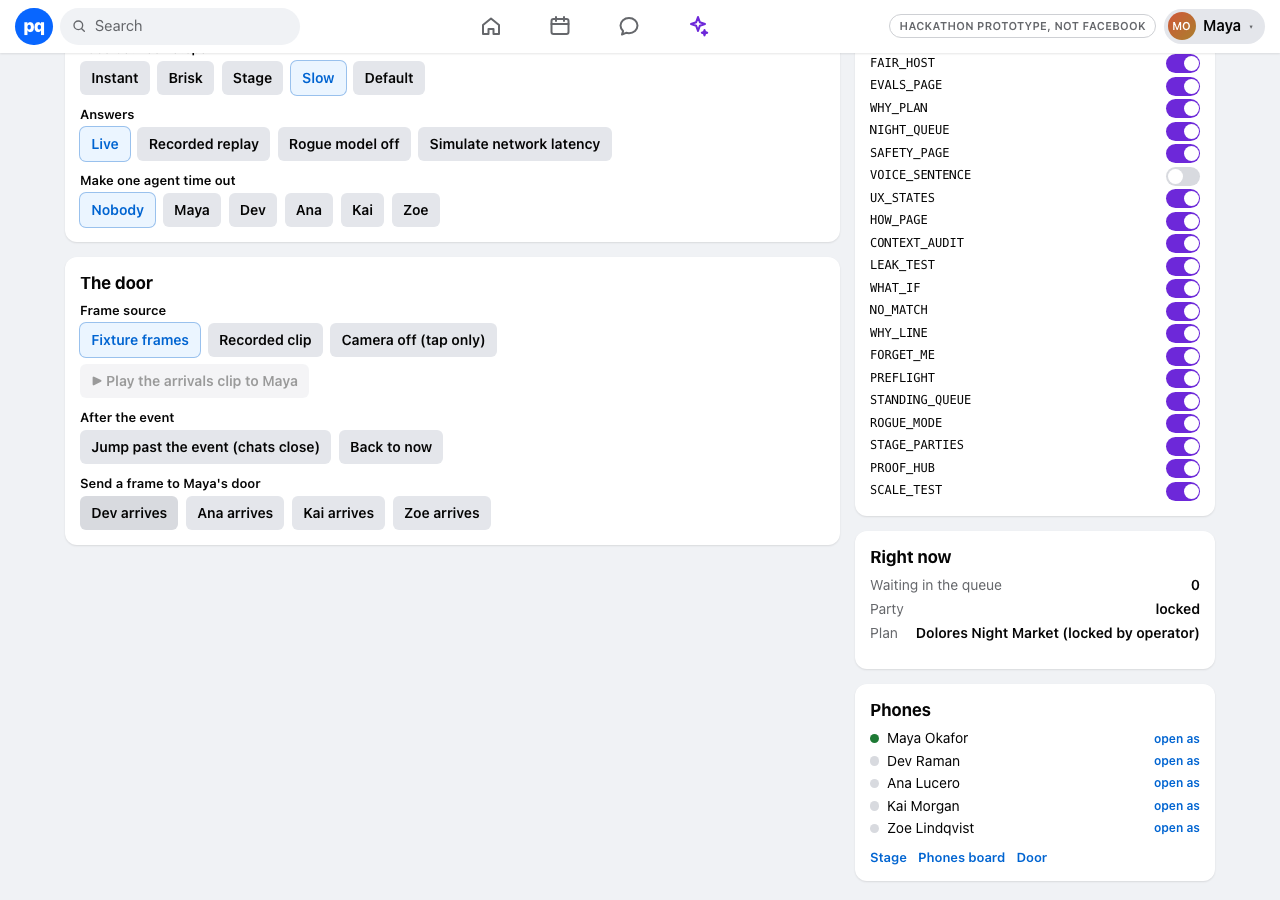
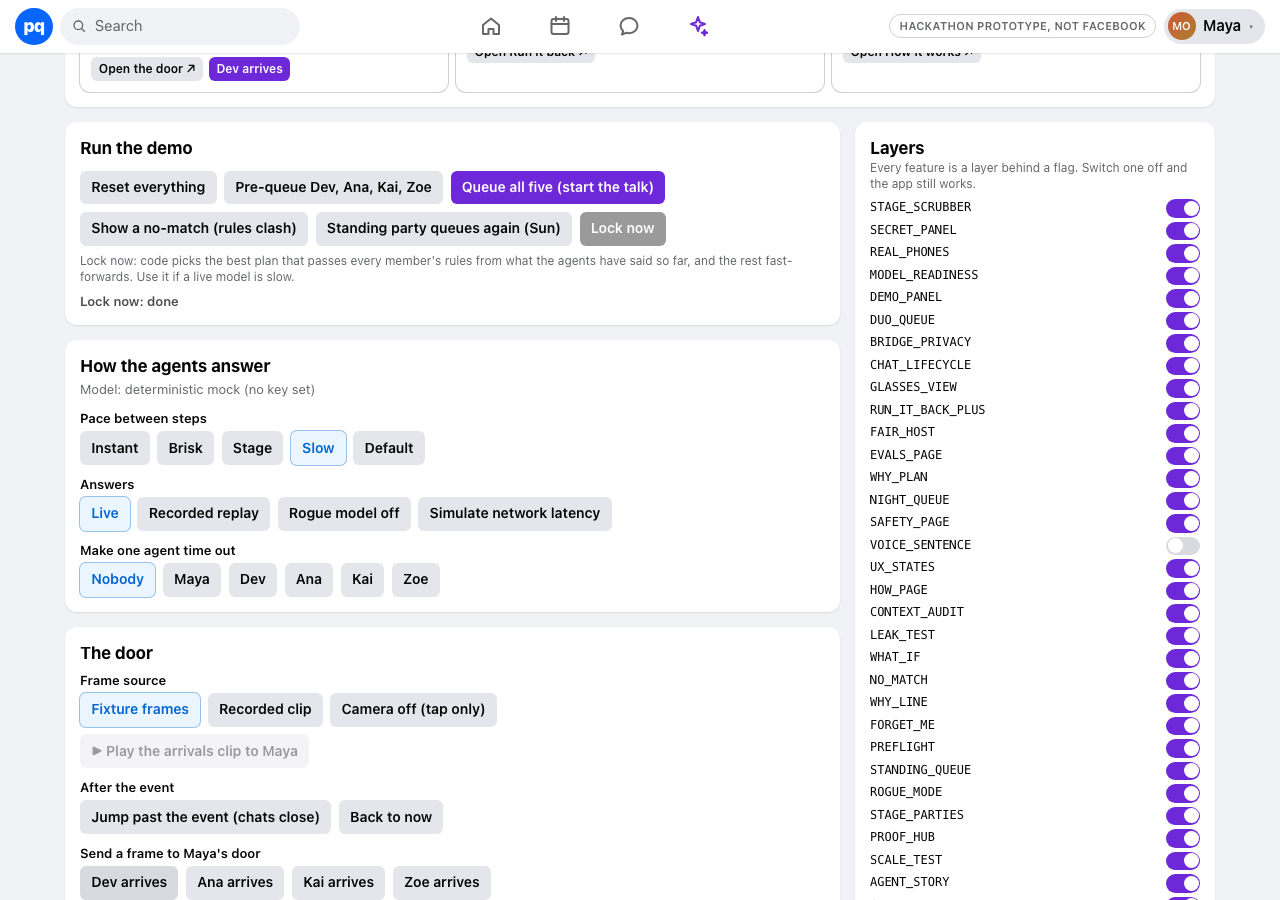
F35: Run of show
/demo gets the five-minute script as nine timed beats: the line to say,
where to show it, one-click setup, and a clock that highlights the
current beat and says when you're over.

diff --git a/components/demo/RunOfShow.tsx b/components/demo/RunOfShow.tsx
@@ -1,0 +1,115 @@
+"use client";
+
+import { useEffect, useState } from "react";
+import { BEATS, beatAt, DEMO_SECONDS, mmss, type Beat } from "@/lib/demo/script";
+
+/** The five-minute run of show: a clock, the beat you're on, what to say, and one-click setup. */
+export function RunOfShow() {
+  const [startedAt, setStartedAt] = useState<number | null>(null);
+  const [pausedAt, setPausedAt] = useState<number | null>(null);
+  const [now, setNow] = useState(() => Date.now());
+  const [msg, setMsg] = useState<string | null>(null);
+  useEffect(() => {
+    if (startedAt === null || pausedAt !== null) return;
+    const t = setInterval(() => setNow(Date.now()), 250);
+    return () => clearInterval(t);
+  }, [startedAt, pausedAt]);
+  const elapsed = startedAt === null ? 0 : ((pausedAt ?? now) - startedAt) / 1000;
+  const current = beatAt(elapsed);
+  const over = elapsed - DEMO_SECONDS;
+
+  const start = () => {
+    if (startedAt === null) {
+      setStartedAt(Date.now());
+      setNow(Date.now());
+    } else if (pausedAt !== null) {
+      setStartedAt(startedAt + (Date.now() - pausedAt));
+      setPausedAt(null);
+      setNow(Date.now());
+    } else setPausedAt(Date.now());
+  };
+  const reset = () => {
+    setStartedAt(null);
+    setPausedAt(null);
+  };
+  const run = async (b: Beat, label: string) => {
+    const a = b.actions.find((x) => x.label === label)!;
+    for (const c of a.calls) {
+      const r = await fetch(c.url, { method: c.method ?? "POST", headers: { "content-type": "application/json" }, body: c.body === undefined ? undefined : JSON.stringify(c.body) });
+      if (!r.ok) {
+        setMsg(`${label}: ${r.status}`);
+        return;
+      }
+    }
+    setMsg(`${label}: done`);
+  };
+
+  return (
+    <section className="mb-4 rounded-[12px] bg-white p-4 shadow-[var(--shadow-card)]" data-testid="run-of-show">
+      <div className="flex flex-wrap items-center gap-3">
+        <div className="min-w-0 flex-1">
+          <h2 className="text-[17px] font-bold">Run of show</h2>
+          <p className="text-[13px] text-[var(--color-ink-2)]">Nine beats to 5:00. Start the clock when you start talking.</p>
+        </div>
+        <div className={`font-mono text-[28px] font-bold tabular-nums ${over > 0 ? "text-[#a8132d]" : ""}`} data-testid="ros-clock" aria-live="off">
+          {mmss(elapsed)}
+          <span className="text-[15px] font-semibold text-[var(--color-ink-2)]"> / 5:00</span>
+        </div>
+        <button onClick={start} data-testid="ros-start" className="press rounded-[6px] bg-[var(--color-pq)] px-3 py-2 text-[14px] font-semibold text-white">
+          {startedAt === null ? "Start the clock" : pausedAt !== null ? "Resume" : "Pause"}
+        </button>
+        <button onClick={reset} className="press rounded-[6px] bg-[var(--color-btn-2)] px-3 py-2 text-[14px] font-semibold">
+          Reset clock
+        </button>
+      </div>
+      {over > 0 && (
+        <div className="mt-2 rounded-[6px] bg-[#fdecef] px-3 py-1.5 text-[13px] font-semibold text-[#a8132d]" role="status">
+          Over time by {mmss(over)}: go to “Check us”.
+        </div>
+      )}
+      <ol className="mt-3 grid gap-2 md:grid-cols-3">
+        {BEATS.map((b) => {
+          const isNow = startedAt !== null && b.id === current.id;
+          const done = startedAt !== null && elapsed >= b.end;
+          return (
+            <li
+              key={b.id}
+              data-testid={`beat-${b.id}`}
+              data-now={isNow}
+              aria-current={isNow ? "step" : undefined}
+              className={`rounded-[10px] p-3 ring-1 ${isNow ? "bg-[var(--color-pq-soft)] ring-[var(--color-pq)]" : done ? "bg-[var(--color-wash)] ring-transparent" : "bg-white ring-[var(--color-divider)]"}`}
+            >
+              <div className="flex items-baseline justify-between gap-2">
+                <span className="text-[15px] font-bold">
+                  {b.title}
+                  {done && <span className="ml-1.5 text-[12px] font-semibold text-[var(--color-ink-2)]">Done</span>}
+                </span>
+                <span className="font-mono text-[12px] text-[var(--color-ink-2)]">
+                  {mmss(b.at)}–{mmss(b.end)}
+                </span>
+              </div>
+              <p className="mt-1 text-[13px]">“{b.say}”</p>
+              <div className="mt-2 flex flex-wrap gap-1.5">
+                {b.show.map((s) => (
+                  <a key={s.href} href={s.href} target="_blank" rel="noreferrer" className="rounded-[6px] bg-[var(--color-btn-2)] px-2 py-1 text-[12px] font-semibold">
+                    Open {s.label} ↗
+                  </a>
+                ))}
+                {b.actions.map((a) => (
+                  <button key={a.label} onClick={() => run(b, a.label)} className="press rounded-[6px] bg-[var(--color-pq)] px-2 py-1 text-[12px] font-semibold text-white">
+                    {a.label}
+                  </button>
+                ))}
+              </div>
+            </li>
+          );
+        })}
+      </ol>
+      {msg && (
+        <div className="mt-2 text-[13px] font-semibold text-[var(--color-ink-3)]" data-testid="ros-msg" role="status">
+          {msg}
+        </div>
+      )}
+    </section>
+  );
+}

diff --git a/lib/demo/script.ts b/lib/demo/script.ts
@@ -1,0 +1,120 @@
+/**
+ * The run of show for the five-minute demo (F35): each beat's time slot,
+ * the one line to say, where to show it, and one-click setup. A unit test
+ * keeps the beats back to back from 0:00 to 5:00 and every link and action
+ * pointing at something real.
+ */
+export interface Call {
+  url: string;
+  body?: unknown;
+  method?: "POST" | "DELETE";
+}
+export interface Beat {
+  id: string;
+  /** Seconds from the start. */
+  at: number;
+  end: number;
+  title: string;
+  say: string;
+  show: { label: string; href: string }[];
+  actions: { label: string; calls: Call[] }[];
+}
+
+export const DEMO_SECONDS = 300;
+
+export const BEATS: Beat[] = [
+  {
+    id: "setup",
+    at: 0,
+    end: 20,
+    title: "Set up",
+    say: "Five strangers want the same night out. Four are already in the queue.",
+    show: [{ label: "the projector", href: "/stage" }],
+    actions: [
+      { label: "Reset everything", calls: [{ url: "/api/demo/reset" }] },
+      { label: "Pre-queue Dev, Ana, Kai, Zoe", calls: [{ url: "/api/demo/start", body: { mode: "four" } }] },
+    ],
+  },
+  {
+    id: "sentence",
+    at: 20,
+    end: 60,
+    title: "One sentence",
+    say: "Maya types one sentence. Her rules become a private brief that never leaves her phone.",
+    show: [{ label: "the event", href: "/event/evt-rooftop" }],
+    actions: [{ label: "View as Maya", calls: [{ url: "/api/viewer", body: { id: "maya" } }] }],
+  },
+  {
+    id: "table",
+    at: 60,
+    end: 120,
+    title: "The table",
+    say: "Five agents, each seeing only its own person. A broken rule reaches the others only as “unavailable”. The caption says what just happened.",
+    show: [{ label: "the projector", href: "/stage" }],
+    actions: [],
+  },
+  {
+    id: "match",
+    at: 120,
+    end: 140,
+    title: "MATCH FOUND",
+    say: "Code locks the plan, and all five phones light up within milliseconds.",
+    show: [{ label: "the five phones", href: "/phones" }],
+    actions: [],
+  },
+  {
+    id: "secret",
+    at: 140,
+    end: 170,
+    title: "Maya's secret",
+    say: "Her rules, on her phone. What the party knows: nothing, computed by scanning everything the other four can load.",
+    show: [{ label: "Maya's party", href: "/party" }],
+    actions: [],
+  },
+  {
+    id: "break",
+    at: 170,
+    end: 210,
+    title: "Try to break it",
+    say: "Type a leak as any agent: blocked. Make every agent misbehave: code still locks a plan that passes everyone's rules.",
+    show: [{ label: "the projector", href: "/stage" }],
+    actions: [
+      { label: "Rogue model on, rerun the party", calls: [{ url: "/api/demo/settings", body: { rogue: true } }, { url: "/api/demo/start", body: { mode: "all" } }] },
+      { label: "Rogue model off", calls: [{ url: "/api/demo/settings", body: { rogue: false } }] },
+    ],
+  },
+  {
+    id: "door",
+    at: 210,
+    end: 240,
+    title: "At the door",
+    say: "Who's in front of you and what to say. Tap “Why this?” for the approved facts behind it. Nothing comes from a face.",
+    show: [{ label: "the door", href: "/door" }],
+    actions: [{ label: "Dev arrives", calls: [{ url: "/api/demo/frame", body: { subjectId: "dev", viewerId: "maya" } }] }],
+  },
+  {
+    id: "after",
+    at: 240,
+    end: 275,
+    title: "After",
+    say: "Private picks; only mutual ones are revealed. Three who all picked each other can queue again, together.",
+    show: [{ label: "Run it back", href: "/runitback" }],
+    actions: [],
+  },
+  {
+    id: "proof",
+    at: 275,
+    end: 300,
+    title: "Check us",
+    say: "Every claim, with a link to see it working and the test that proves it.",
+    show: [{ label: "How it works", href: "/how" }],
+    actions: [],
+  },
+];
+
+export const mmss = (sec: number) => `${Math.floor(Math.max(0, sec) / 60)}:${String(Math.floor(Math.max(0, sec) % 60)).padStart(2, "0")}`;
+
+/** The beat for this moment (the last one once time is up). */
+export function beatAt(sec: number): Beat {
+  return BEATS.find((b) => sec >= b.at && sec < b.end) ?? BEATS[BEATS.length - 1]!;
+}

diff --git a/tests/runofshow.spec.ts b/tests/runofshow.spec.ts
@@ -1,0 +1,35 @@
+import AxeBuilder from "@axe-core/playwright";
+import { expect, test } from "@playwright/test";
+
+/* F35: the run of show on /demo: nine timed beats, the clock highlights the current one, setup is one click. */
+
+test("run of show: start the clock, set up in one click, and the current beat follows the time", async ({ page, request }) => {
+  test.setTimeout(120_000);
+  await request.post("/api/demo/reset");
+  await page.clock.install();
+  await page.setViewportSize({ width: 1280, height: 1100 });
+  await page.goto("/demo");
+  const ros = page.getByTestId("run-of-show");
+  await expect(ros.locator("li")).toHaveCount(9);
+  await page.getByTestId("ros-start").click();
+  await expect(page.getByTestId("beat-setup")).toHaveAttribute("data-now", "true");
+
+  // One-click setup from the beat itself.
+  await page.getByTestId("beat-setup").getByRole("button", { name: "Pre-queue Dev, Ana, Kai, Zoe" }).click();
+  await expect(page.getByTestId("ros-msg")).toHaveText("Pre-queue Dev, Ana, Kai, Zoe: done");
+  const st = (await (await request.get("/api/demo/status")).json()) as { queue?: unknown[]; waiting?: number };
+  expect(JSON.stringify(st)).toContain("dev");
+
+  // A minute in: the table is the beat.
+  await page.clock.fastForward("01:05");
+  await expect(page.getByTestId("beat-table")).toHaveAttribute("data-now", "true");
+  await expect(page.getByTestId("beat-setup")).toHaveAttribute("data-now", "false");
+  await expect(page.getByTestId("ros-clock")).toContainText("1:05");
+  const axe = await new AxeBuilder({ page }).include("[data-testid=run-of-show]").withTags(["wcag2a", "wcag2aa", "wcag21a", "wcag21aa"]).analyze();
+  expect(axe.violations.filter((v) => v.impact === "serious" || v.impact === "critical").map((v) => v.id)).toEqual([]);
+  await ros.screenshot({ path: "shots/f35-run-of-show.png" });
+
+  // Past five minutes: it says so.
+  await page.clock.fastForward("04:10");
+  await expect(ros.getByRole("status").first()).toContainText("Over time by 0:15");
+});

diff --git a/tests/unit/runofshow.test.ts b/tests/unit/runofshow.test.ts
@@ -1,0 +1,35 @@
+import fs from "node:fs";
+import { describe, expect, it } from "vitest";
+import { BEATS, beatAt, DEMO_SECONDS, mmss } from "@/lib/demo/script";
+import { flag } from "@/lib/flags";
+
+describe("run of show (F35)", () => {
+  it("is on by default", () => expect(flag("RUN_OF_SHOW")).toBe(true));
+
+  it("nine beats, back to back, from 0:00 to exactly 5:00", () => {
+    expect(BEATS).toHaveLength(9);
+    expect(BEATS[0]!.at).toBe(0);
+    expect(BEATS.at(-1)!.end).toBe(DEMO_SECONDS);
+    for (let i = 1; i < BEATS.length; i++) expect(BEATS[i]!.at, BEATS[i]!.id).toBe(BEATS[i - 1]!.end);
+    for (const b of BEATS) expect(b.end).toBeGreaterThan(b.at);
+  });
+
+  it("every link is a real page and every action a real API route", () => {
+    for (const b of BEATS) {
+      for (const s of b.show) {
+        const route = s.href.replace(/^\//, "").replace(/^event\/[^/]+$/, "event/[id]");
+        expect(fs.existsSync(`app/${route}/page.tsx`), s.href).toBe(true);
+      }
+      for (const a of b.actions) for (const c of a.calls) expect(fs.existsSync(`app${c.url}/route.ts`), c.url).toBe(true);
+    }
+  });
+
+  it("knows the beat for any moment, and the clock format", () => {
+    expect(beatAt(0).id).toBe("setup");
+    expect(beatAt(65).id).toBe("table");
+    expect(beatAt(299).id).toBe("proof");
+    expect(beatAt(400).id).toBe("proof");
+    expect(mmss(0)).toBe("0:00");
+    expect(mmss(275)).toBe("4:35");
+  });
+});

diff --git a/app/demo/page.tsx b/app/demo/page.tsx
@@ -2,6 +2,7 @@ import type { Metadata } from "next";
 import { notFound } from "next/navigation";
 import { DemoPanel } from "@/components/demo/DemoPanel";
 import { Preflight } from "@/components/demo/Preflight";
+import { RunOfShow } from "@/components/demo/RunOfShow";
 import { DEMO_IDS } from "@/fixtures";
 import { flag } from "@/lib/flags";
 import { profile } from "@/lib/server/store";
@@ -23,6 +24,7 @@ export default function DemoPage() {
         <p className="text-[15px] text-[var(--color-ink-2)]">For whoever is presenting. Seeded, fictional people only.</p>
       </div>
       {flag("PREFLIGHT") && <Preflight />}
+      {flag("RUN_OF_SHOW") && <RunOfShow />}
       <DemoPanel people={people} />
     </main>
   );

diff --git a/lib/flags.ts b/lib/flags.ts
@@ -74,6 +74,8 @@ const DEFAULTS = {
   STAGE_CAPTIONS: true,
   /** F34: change your sentence while you wait in the queue, and keep your place in line. */
   EDIT_SENTENCE: true,
+  /** F35: a run of show on /demo: nine timed beats to 5:00, what to say, where to show it, one-click setup. */
+  RUN_OF_SHOW: true,
 } as const satisfies Record<string, boolean>;
 
 export type FlagName = keyof typeof DEFAULTS;

diff --git a/FEATURES.md b/FEATURES.md
@@ -63,6 +63,7 @@ hues (spread across the wheel, layout picked from a title hash).
 | 32 | Why this, in the chat | The chat is where the suggested openers get used. A grounding guarantee that shows on the card but not in the chat looks partial; now every machine-written line in the app can say where it came from. | `CHAT_WHY` | done (F32) |
 | 33 | Stage captions | The projector is dense and judges sit at the back. One big sentence saying what just happened ("Rooftop Sunset Session is unavailable. The other members see no reason and no name.") lets anyone follow the negotiation without reading the lanes, and lets the presenter talk less. | `STAGE_CAPTIONS` | done (F33) |
 | 34 | Change your sentence while you wait | A matchmaking queue that punishes you for fixing a typo, or for remembering you have to be home by midnight, by sending you to the back of the line feels hostile. Now you can change it in place and keep your spot, with the same private preview. | `EDIT_SENTENCE` | done (F34) |
+| 35 | Run of show: the five-minute demo as nine timed beats | There are now more good beats than five minutes. A judge sees the demo, not the backlog; a presenter with a clock, the one line to say, and one-click setup for each beat lands all of it on time instead of improvising. | `RUN_OF_SHOW` | done (F35) |
 
 ## Done
 
@@ -102,3 +103,4 @@ hues (spread across the wheel, layout picked from a title hash).
 | F32 | **Why this? in the group chat.** Under the pinned plan ("Your party's plan: Dolores Night Market.") and under each of the five suggested openers ("Dev listed “farmers market” on their profile and approved sharing it."), the same `explainSources` as the cards, computed on the server for the viewer and passed into the thread. It sits below the bubble's row, so the avatar stays beside the bubble, and aligns right under your own messages. | `CHAT_WHY` | `npm test -- provenance`: `Tests 6 passed` (adds: the party chat's pinned plan and all five openers explain fully from Maya's view). `npx playwright test tests/chatwhy.spec.ts` at 390 px: the pinned plan's sources; Maya's opener to Dev shows Dev's approved fact and "The model only chose which facts.": `✓ why this, in the chat: … (6.2s)`; `states`, `chatlife`, `a11y` (both viewports) and `mobile` pass. Gate: typecheck exit 0, `Tests 196 passed (196)`, demo path passed. `shots/f32-chat-why.png` |
 | F33 | **Stage captions**: a large caption under the `/stage` header (`aria-live="polite"`) with the latest moment in one plain sentence, coloured by who acted (an agent, code, or something stopped). Derived from the traces up to the scrubber, so replays caption themselves: "A party of five formed. Code checked ages, blocks and settings…", "Maya's agent turned down 3 plans that break Maya's rules. Only Maya's phone and this screen see why.", "Rooftop Sunset Session is unavailable. The other members see no reason and no name.", "Code totals everyone's preferences: Dolores Night Market leads.", "Kai's agent is holding out for Open Studio: Clay and Tea.", "5 of 5 signed Dolores Night Market.", "Code locked Dolores Night Market. MATCH FOUND on all five phones." Also the rogue model, overrides, verifier blocks, leak tests, What if and no-match. Captions never quote anyone's private words, and pair talk isn't captioned so it can't drown out the table. Caught in the screenshot: the first version read plan titles out of the trace text and cut "Open Studio: Clay and Tea" at its colon; titles now come from the plan id, and the tests check the full title. | `STAGE_CAPTIONS` | `npm test -- captions`: `Tests 4 passed` (nothing before the first move; the demo party's captions from formation to the lock, including Kai's hold with the full title; no caption holds any member's private phrases; the rogue model, an override and a verifier block). `npx playwright test tests/captions.spec.ts`: "Waiting for the first move.", then live to "Code locked Dolores Night Market. MATCH FOUND on all five phones."; scrubbed to Kai's round-2 move: "Kai's agent is holding out for Open Studio: Clay and Tea."; back to 0: waiting: `✓ stage captions: … (6.3s)`; `stage`, `stageparties`, `rogue`, `mobile`, `a11y` pass. Gate: typecheck exit 0, `Tests 200 passed (200)`, demo path passed. `shots/f33-captions.png` |
 | F34 | **Change your sentence while you wait.** The queue sheet's waiting view shows your own sentence ("only you see it") with **Change it**: a text box with the same live private preview of the rules your agent will hold to, then **Save, keep my place**. Code rebuilds your brief from the new words (old brief lines dropped, new ones added) but keeps your queue entry and its join time, so you stay ahead of anyone who joined after you, and the timer keeps counting from when you joined. Once your party forms it's refused: the agents are already working from your brief. | `EDIT_SENTENCE` | `npm test -- editsentence`: `Tests 4 passed` (same entry and join time, the new sentence and rules, still one entry; the agents then use it: without the drink rule Maya's agent no longer turns the rooftop down; refused once the party forms, and for someone not waiting). `npx playwright test tests/editsentence.spec.ts` at 390 px: join, change to "home by midnight": the preview shows "Done by 12 AM" and no drink rule, axe clean, "Saved. You kept your place in line.", and the queue status has the same entry id and join time: `✓ change your sentence while you wait: … (1.4s)`; `queue`, `duo`, `night`, `standing` and `mobile` pass. Gate: typecheck exit 0, `Tests 204 passed (204)`, demo path passed. `shots/f34-edit.png`, `shots/f34-saved.png` |
+| F35 | **Run of show** on `/demo`, under Preflight: nine beats back to back from 0:00 to 5:00 (Set up, One sentence, The table, MATCH FOUND, Maya's secret, Try to break it, At the door, After, Check us), each with its time slot, the one line to say, "Open … ↗" links to where to show it, and one-click setup that calls the existing demo endpoints (Reset everything; Pre-queue Dev, Ana, Kai, Zoe; View as Maya; Rogue model on, rerun the party; Rogue model off; Dev arrives). A clock (start, pause, resume, reset) highlights the current beat (`aria-current="step"`), marks finished ones "Done", and past 5:00 says "Over time by 0:15: go to “Check us”." The beats live in `lib/demo/script.ts`; a unit test keeps them back to back and every link and action real. | `RUN_OF_SHOW` | `npm test -- runofshow`: `Tests 4 passed` (nine beats from 0:00 to exactly 5:00 with no gaps; every link is a page and every action an API route; the beat for any moment; the clock format). `npx playwright test tests/runofshow.spec.ts` (with Playwright's clock): start, Set up is current; "Pre-queue Dev, Ana, Kai, Zoe: done" and Dev is waiting; at 1:05 the table is current; axe clean (finished beats first used opacity, which failed contrast; they now say "Done" instead); past 5:00, "Over time by 0:15": `✓ run of show: … (0.8s)`; `demo-panel`, `preflight`, `a11y`, `mobile` pass. Gate: typecheck exit 0, `Tests 208 passed (208)`, demo path passed. `shots/f35-run-of-show.png` |

diff --git a/README.md b/README.md
@@ -34,7 +34,8 @@ real table talk; `npm run record` saves a run for the recorded replay.
 ## The five-minute demo
 
 Open **`/demo`** (the presenter's panel) and **`/stage`** (the projector). On `/demo`, run
-**Preflight** first: it rehearses the whole party in a sandbox and says what to fix. Then:
+**Preflight** first: it rehearses the whole party in a sandbox and says what to fix. The
+**Run of show** below it has the same script as nine timed beats with one-click setup. Then:
 **Reset everything**, then **Pre-queue Dev, Ana, Kai, Zoe**. Pick a pace (Stage is good).
 
 1. **One sentence (Maya's phone).** Events → *Rooftop Sunset Session* → **Find my party**.
@@ -124,6 +125,7 @@ live from `/demo` → Layers, or with `PQ_FLAG_<NAME>=0|1`.
 | `CHAT_WHY` | **Why this?** in the group chat too: under the pinned plan and each suggested opener |
 | `STAGE_CAPTIONS` | a big caption on `/stage` saying what just happened in plain words ("Kai's agent is holding out for Open Studio: Clay and Tea."); follows the scrubber; never quotes anyone's private words |
 | `EDIT_SENTENCE` | change your sentence while you wait in the queue: a new private preview, the brief rebuilt, and you keep your place in line |
+| `RUN_OF_SHOW` | **Run of show** on `/demo`: nine timed beats to 5:00, the line to say, where to show it, one-click setup; a clock highlights the current beat and says when you're over |
 | `NO_MATCH` | when no plan fits all five: everyone back at the front of the queue, nobody blamed, the same five never re-form; anyone whose own rules close every plan is told privately |
 
 ## Routes
@@ -169,7 +171,7 @@ inferred from a face; no score or label about a person or a pair.
 
 ```bash
 npm run typecheck
-npm test                       # 204 unit tests (vitest)
+npm test                       # 208 unit tests (vitest)
 npm run contract:check         # fixtures and events against the Zod contracts
 npm run eval -- --mock         # 7 eval suites
 npx playwright install chromium  # once, for the browser tests

diff --git a/docs/DEVPOST.md b/docs/DEVPOST.md
@@ -56,7 +56,7 @@ column is computed by scanning everything the other four can load, and it stays 
 - A code judge, a verifier for public lines, and pair talk where the model only picks fact ids.
 - A projector view with a scrubber that rebuilds the board (plans, signatures, the lock) at
   any moment of the replay.
-- Vitest (204 unit tests), Playwright (35+ end-to-end specs on a production build, including
+- Vitest (208 unit tests), Playwright (35+ end-to-end specs on a production build, including
   five phones at once, 390-pixel layouts and axe accessibility checks), and an eval harness.
 
 ## The leak test
